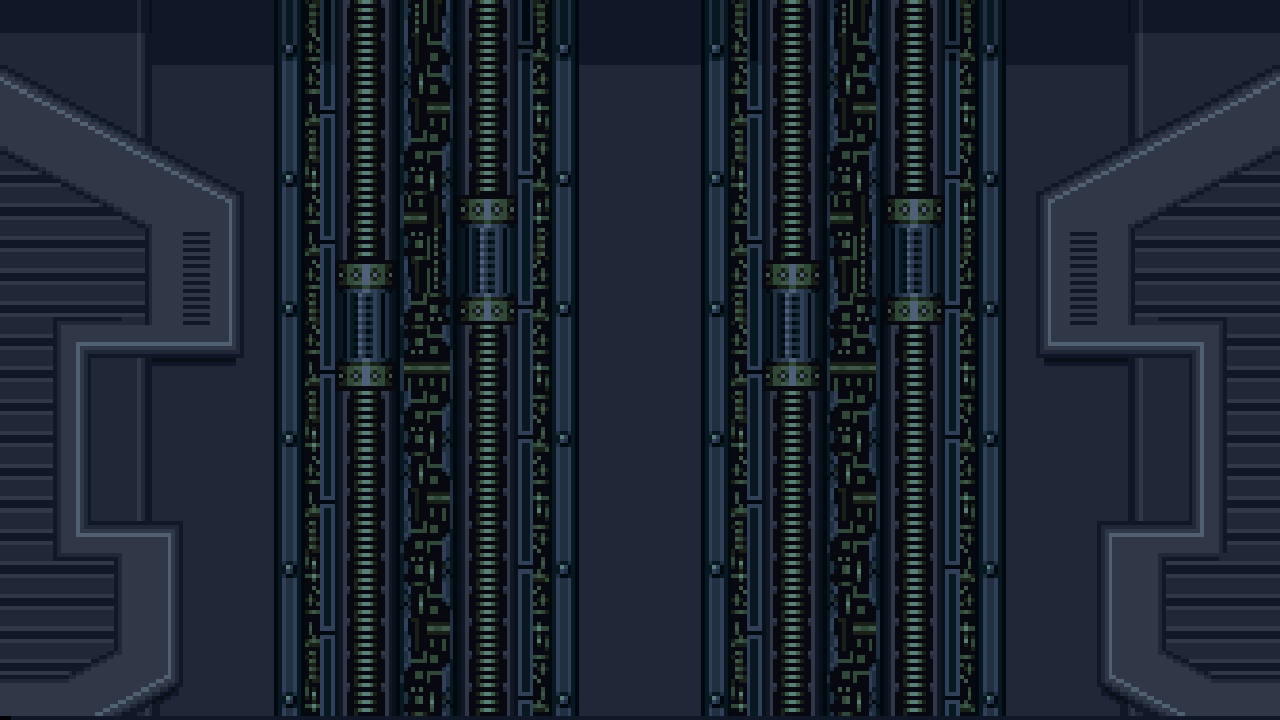
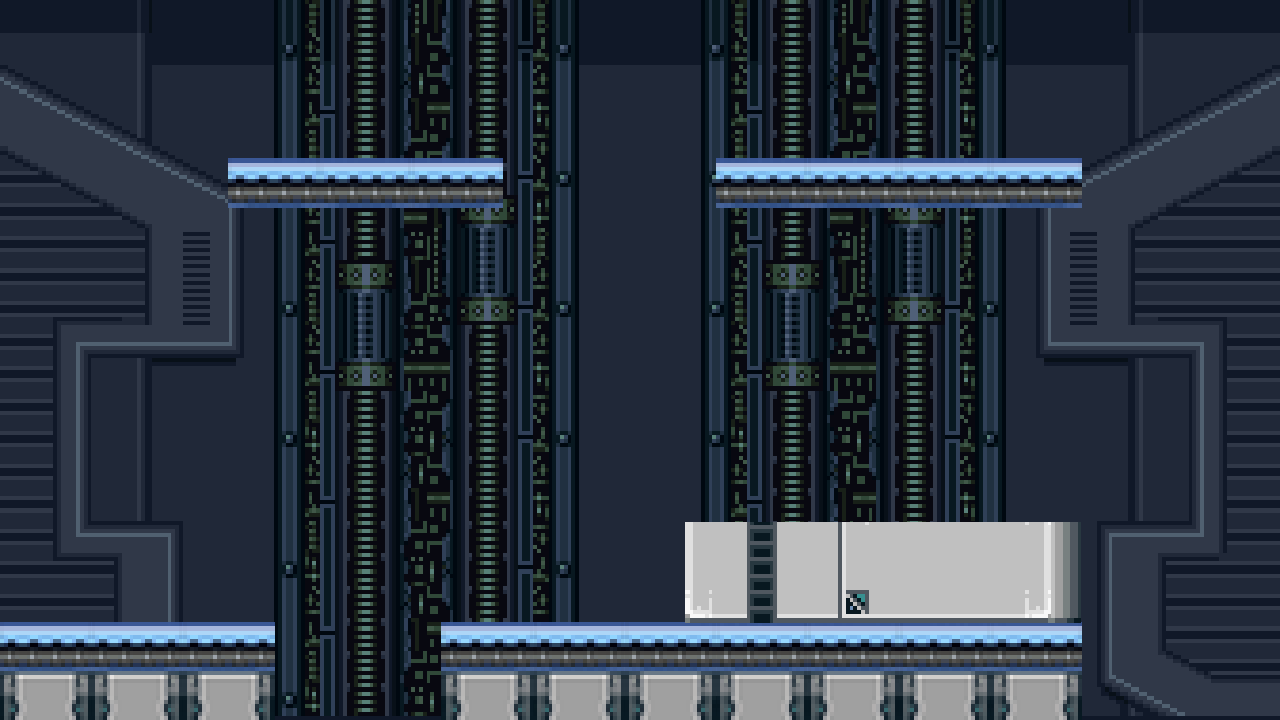
Daniel

diff --git a/Animation/Level1.cpp b/Animation/Level1.cpp
@@ -1,106 +1,43 @@
 // Includes ------------
-#include "Engine.h"
 #include "Level1.h"
 #include "StartScreen.h"
-#include "Player.h"
+#include "GameOver.h"
 #include "Tile.h"
 #include "Bullet.h"
 #include "Turret.h"
-#include "GameOver.h"
+#include "Engine.h"
+#include "Ground.h"
 // ---------------------
 
 void Level1::Init() {
 	scene = new Scene();
 
-	Player* player = new Player(100, window->CenterY() - 360, this, LEVEL1);
+	player = new Player(100, window->CenterY(), this, LEVEL1);
 	scene->Add(player, MOVING);
 
-	float startX = 16;
-	float startY = 32;
-	float wallSX = 4;
-	float wallSY = 24;
+	Ground* ground = new Ground(0, window->Height(), 550, 200);
+	scene->Add(ground, STATIC);
 
-	Tile* wall = new Tile(wallSX, window->Height() - wallSY * 3, WALL);
-	scene->Add(wall, STATIC);
-	Tile* wall2 = new Tile(wallSX, window->Height() - wallSY * 5, WALL);
-	scene->Add(wall2, STATIC);
-	Tile* wall3 = new Tile(wallSX, window->Height() - wallSY * 7, WALL);
-	scene->Add(wall3, STATIC);
-	Tile* wall4 = new Tile(wallSX, window->Height() - wallSY * 9, WALL);
-	scene->Add(wall4, STATIC);
-	Tile* wall5 = new Tile(wallSX, window->Height() - wallSY * 11, WALL);
-	scene->Add(wall5, STATIC);
-	Tile* wall6 = new Tile(wallSX, window->Height() - wallSY * 13, WALL);
-	scene->Add(wall6, STATIC);
-	Tile* wall7 = new Tile(wallSX, window->Height() - wallSY * 15, WALL);
-	scene->Add(wall7, STATIC);
-	Tile* wall8 = new Tile(wallSX, window->Height() - wallSY * 17, WALL);
-	scene->Add(wall8, STATIC);
-	Tile* wall9 = new Tile(wallSX, window->Height() - wallSY * 19, WALL);
-	scene->Add(wall9, STATIC);
-	Tile* wall10 = new Tile(wallSX, window->Height() - wallSY * 21, WALL);
-	scene->Add(wall10, STATIC);
-	Tile* wall11 = new Tile(wallSX, window->Height() - wallSY * 23, WALL);
-	scene->Add(wall11, STATIC);
-	Tile* wall12 = new Tile(wallSX, window->Height() - wallSY * 25, WALL);
-	scene->Add(wall12, STATIC);
-	Tile* wall13 = new Tile(wallSX, window->Height() - wallSY * 27, WALL);
-	scene->Add(wall13, STATIC);
-	Tile* wall14 = new Tile(wallSX, window->Height() - wallSY * 29, WALL);
-	scene->Add(wall14, STATIC);
+	Ground* ground1 = new Ground(761, window->Height(), 630, 200);
+	scene->Add(ground1, STATIC);
 
-	Tile* wall15 = new Tile(window->Width() - wallSX, window->Height() - wallSY * 3, WALL);
-	scene->Add(wall15, STATIC);
-	Tile* wall16 = new Tile(window->Width() - wallSX, window->Height() - wallSY * 5, WALL);
-	scene->Add(wall16, STATIC);
-	Tile* wall17 = new Tile(window->Width() - wallSX, window->Height() - wallSY * 7, WALL);
-	scene->Add(wall17, STATIC);
-	Tile* wall18 = new Tile(window->Width() - wallSX, window->Height() - wallSY * 9, WALL);
-	scene->Add(wall18, STATIC);
-	Tile* wall19 = new Tile(window->Width() - wallSX, window->Height() - wallSY * 11, WALL);
-	scene->Add(wall19, STATIC);
-	Tile* wall20 = new Tile(window->Width() - wallSX, window->Height() - wallSY * 13, WALL);
-	scene->Add(wall20, STATIC);
-	Tile* wall21 = new Tile(window->Width() - wallSX, window->Height() - wallSY * 15, WALL);
-	scene->Add(wall21, STATIC);
-	Tile* wall22 = new Tile(window->Width() - wallSX, window->Height() - wallSY * 17, WALL);
-	scene->Add(wall22, STATIC);
-	Tile* wall23 = new Tile(window->Width() - wallSX, window->Height() - wallSY * 19, WALL);
-	scene->Add(wall23, STATIC);
-	Tile* wall24 = new Tile(window->Width() - wallSX, window->Height() - wallSY * 21, WALL);
-	scene->Add(wall24, STATIC);
-	Tile* wall25 = new Tile(window->Width() - wallSX, window->Height() - wallSY * 23, WALL);
-	scene->Add(wall25, STATIC);
-	Tile* wall26 = new Tile(window->Width() - wallSX, window->Height() - wallSY * 25, WALL);
-	scene->Add(wall26, STATIC);
-	Tile* wall27 = new Tile(window->Width() - wallSX, window->Height() - wallSY * 27, WALL);
-	scene->Add(wall27, STATIC);
-	Tile* wall28 = new Tile(window->Width() - wallSX, window->Height() - wallSY * 29, WALL);
-	scene->Add(wall28, STATIC);
+	Ground* ground2 = new Ground(365, 182, 275, 50);
+	scene->Add(ground2, STATIC);
+	
+	Ground* ground3 = new Ground(899, 182, 368, 50);
+	scene->Add(ground3, STATIC);
 
-	Tile* tile = new Tile(startX, window->Height() - startY, FULL);
+	Ground* ground4 = new Ground(882, 580, 390, 125);
+	scene->Add(ground4, STATIC);
+
+	Tile* tile = new Tile(window->Width() - 64, 325, 0, 200, 0, 400, HALF);
 	scene->Add(tile, STATIC);
-	Tile* tile2 = new Tile(startX * 3, window->Height() - startY, FULL);
-	scene->Add(tile2, STATIC);
-	Tile* tile3 = new Tile(startX * 5, window->Height() - startY, FULL);
-	scene->Add(tile3, STATIC);
-	Tile* tile4 = new Tile(startX * 7, window->Height() - startY, FULL);
-	scene->Add(tile4, STATIC);
-	Tile* tile5 = new Tile(startX * 9, window->Height() - startY, FULL);
-	scene->Add(tile5, STATIC);
-	Tile* tile6 = new Tile(startX * 11, window->Height() - startY, FULL);
-	scene->Add(tile6, STATIC);
-	Tile* tile7 = new Tile(startX * 23, window->Height() - startY, FULL);
-	scene->Add(tile7, STATIC);
-	Tile* tile8 = new Tile(startX * 25, window->Height() - startY, FULL);
-	scene->Add(tile8, STATIC);
-	Tile* tile9 = new Tile(startX * 27, window->Height() - startY, FULL);
-	scene->Add(tile9, STATIC);
+	
+	Tile* tile1 = new Tile(window->Width() - 96, 325, 0, 200, 0, 400, HALF);
+	scene->Add(tile1, STATIC);
 
 	Turret* turret = new Turret(window->CenterX(), window->CenterY() - 78, this, LEVEL1);
 	scene->Add(turret, STATIC);
-
-	
 }
 
 void Level1::Update() {
@@ -117,7 +54,7 @@ void Level1::Update() {
 	// Sai do jogo com a tecla ESC ---------
 	if (window->KeyDown(VK_ESCAPE)) {
 		Engine::Next<StartScreen>();
-	} else if (window->KeyDown('N')) {
+	} else if (player->isDead()) {
 		Engine::Next<GameOver>();
 	} else {
 		scene->Update();

diff --git a/Animation/Player.cpp b/Animation/Player.cpp
@@ -1,5 +1,7 @@
 #include "Player.h"
-#include "iostream"
+#include "GrandChains.h"
+#include "Tile.h"
+#include "Bullet.h"
 
 Player::Player(int startX, int startY, Game* actualLevel, uint level) {
 	// Define tamanho da Bounding Box do player ------
@@ -228,7 +230,6 @@ void Player::StateMachine() {
 	}
 }
 
-
 void Player::Jump() {
 	if (window->KeyDown(VK_SPACE) && jumpProgress >= jumpDistance && grounded) {
 		jumpProgress = 0;
@@ -267,18 +268,18 @@ void Player::OnCollision(Object* obj) {
 		int objectScaleY = object->Bottom() - object->Top();
 
 		
-		if (player->Right() > object->Left() + 5 && player->Left() < object->Right() - 5) {
+		if (player->Right() > object->Left() + 5 && player->Left() < object->Right() - 6) {
 			if (y < tile->Y()) {
 				grounded = true;
-				MoveTo(x, object->Top() - spriteSize / 2 + 5);
+				MoveTo(x, object->Top() - spriteSize / 2 + 6);
 			} else {
 				upped = true;
 				MoveTo(x, object->Bottom() + spriteSize / 2);
 			}
 		} else {
-			if (x > tile->X() && y != object->Top() - spriteSize / 2 + 5) {
+			if (x > tile->X() && y != object->Top() - spriteSize / 2 + 6) {
 				lefted = true;
-			} else if (x < tile->X() && y != object->Top() - spriteSize / 2 + 5){
+			} else if (x < tile->X() && y != object->Top() - spriteSize / 2 + 6){
 				righted = true;
 			}
 		}
@@ -309,4 +310,12 @@ void Player::OnCollision(Object* obj) {
 			}
 		}*/
 	}
+}
+
+void Player::setDead(bool state) {
+	dead = state;
+}
+
+bool Player::isDead() {
+	return dead;
 }

diff --git a/Animation/StartScreen.h b/Animation/StartScreen.h
@@ -9,9 +9,10 @@
 // Objeto da tela principal -------------------------------------------
 class StartScreen : public Game {
 private:
-	Sprite* background = nullptr;	// Background
+	Sprite* background = nullptr;				// Background
 	Sprite* enter = nullptr;					// Pressione Enter
-	bool	esc = false;												// controla o pressionamento do ESC
+	bool	esc = false;						// Controla o pressionamento do ESC
+	bool	ent = false;						// Controla o pressionamento do Enter
 
 public:
 	void Init();		// inicializa jogo

diff --git a/Animation/GameOver.cpp b/Animation/GameOver.cpp
@@ -13,15 +13,15 @@ void GameOver::Finalize() {
 }
 
 void GameOver::Update() {
-	// Sai do jogo com a tecla ESC
-	if (window->KeyUp(VK_ESCAPE)) {
+	// Sai do jogo com a tecla ESC ---
+	if (window->KeyUp(VK_RETURN)) {
 		esc = true;
 	}
-	if (esc && window->KeyDown(VK_ESCAPE)) {
+	if (esc && window->KeyDown(VK_RETURN)) {
 		Engine::Next<StartScreen>();
 		esc = false;
 	}
-	// ----------------------------
+	// -------------------------------
 }
 
 void GameOver::Draw() {

diff --git a/Animation/Ground.cpp b/Animation/Ground.cpp
@@ -1,0 +1,24 @@
+#include "GrandChains.h"
+#include "Ground.h"
+#include "Sprite.h"
+
+Ground::Ground(int startX, int startY, int width, int height) {
+	type = TILE;
+	MoveTo(startX, startY, Layer::FRONT);
+	bbox = new Rect(-width / 2, -height / 2, width / 2, height / 2);
+}
+
+Ground::~Ground() {
+
+}
+
+void Ground::Update() {
+	bbox->MoveTo(x, y);
+}
+
+void Ground::Draw() {
+	
+}
+
+
+

diff --git a/Animation/Bullet.h b/Animation/Bullet.h
@@ -8,6 +8,7 @@
 #include "Sprite.h"
 #include "GrandChains.h"
 #include "Level1.h"
+#include "Player.h"
 // -------------------
 
 // Objeto do personagem principal ---------------------------------------------------------------------------------------------------

diff --git a/Animation/Bullet.cpp b/Animation/Bullet.cpp
@@ -23,6 +23,9 @@ void Bullet::OnCollision(Object* obj) {
 		if (obj->Type() == PLAYER) {
 			Delete(obj);
 			Delete(this);
+
+			Player* p = (Player*)obj;
+			p->setDead(true);
 		} else if (obj->Type() == TILE) {
 			Delete(this);
 		}
